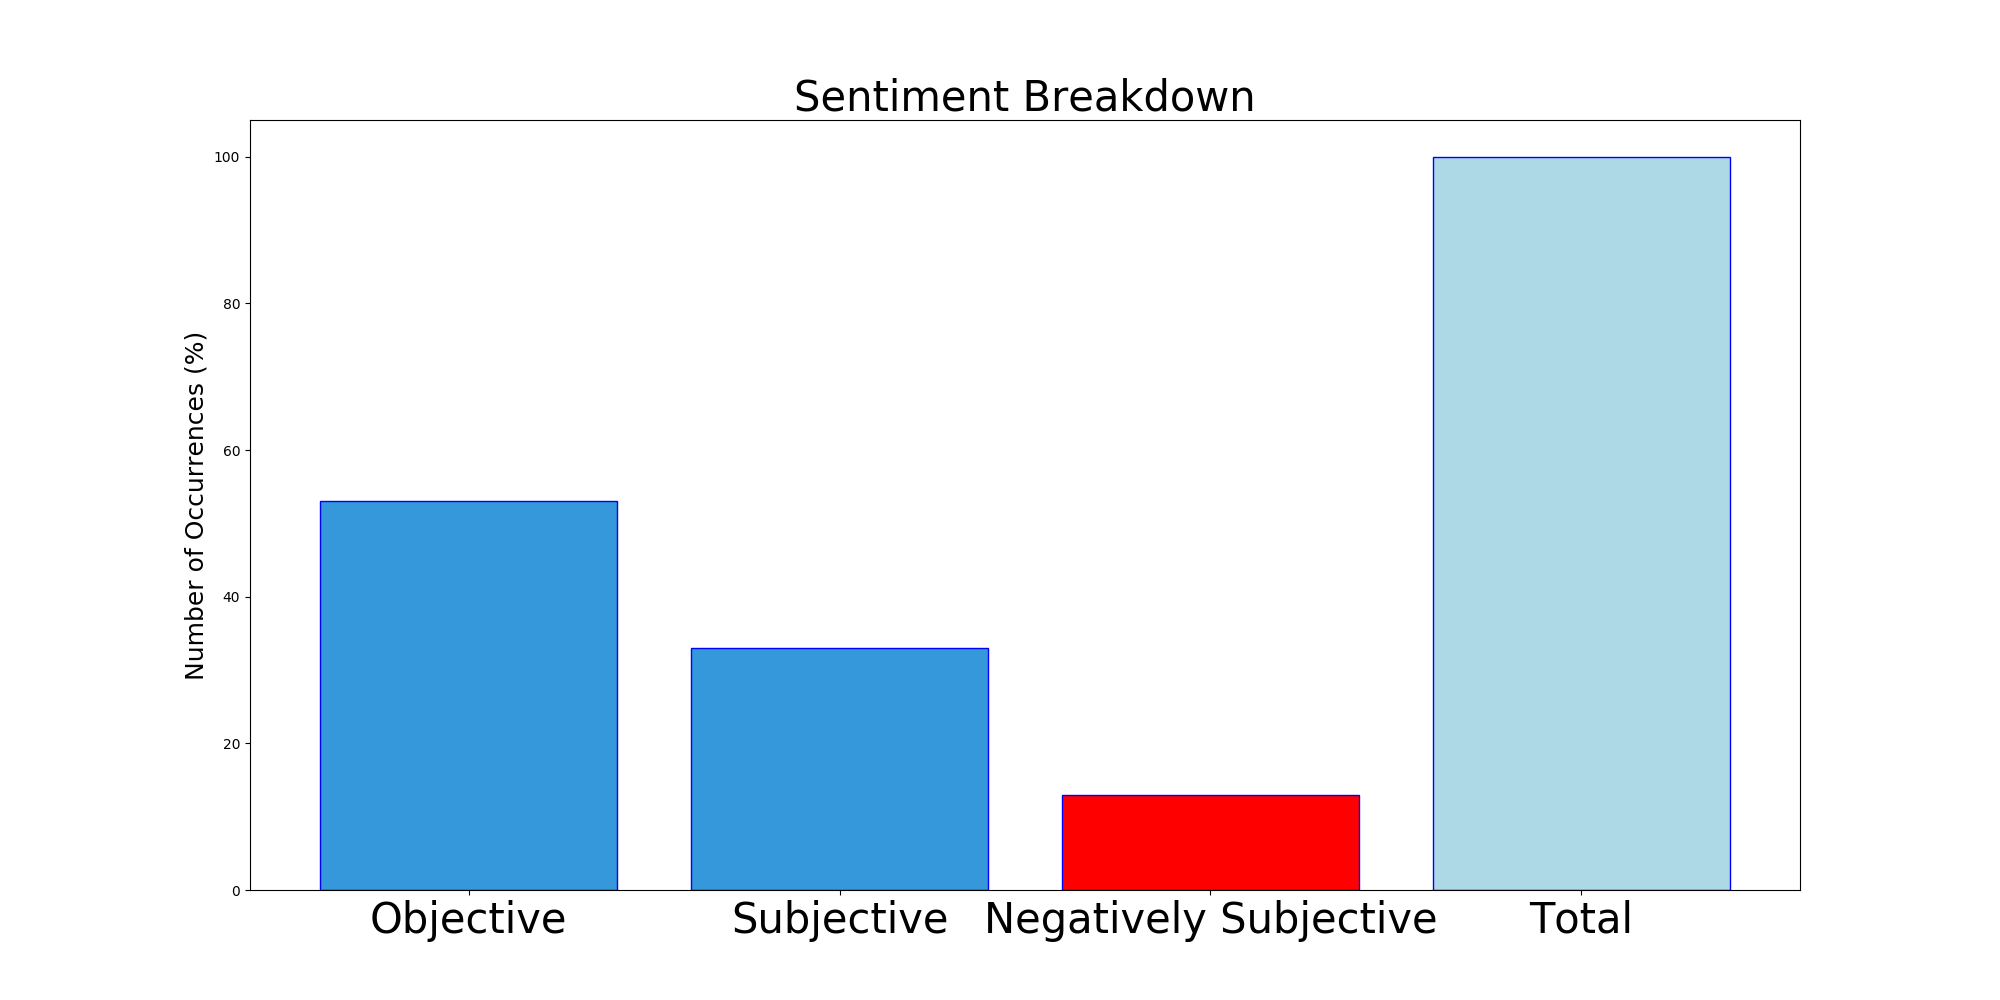
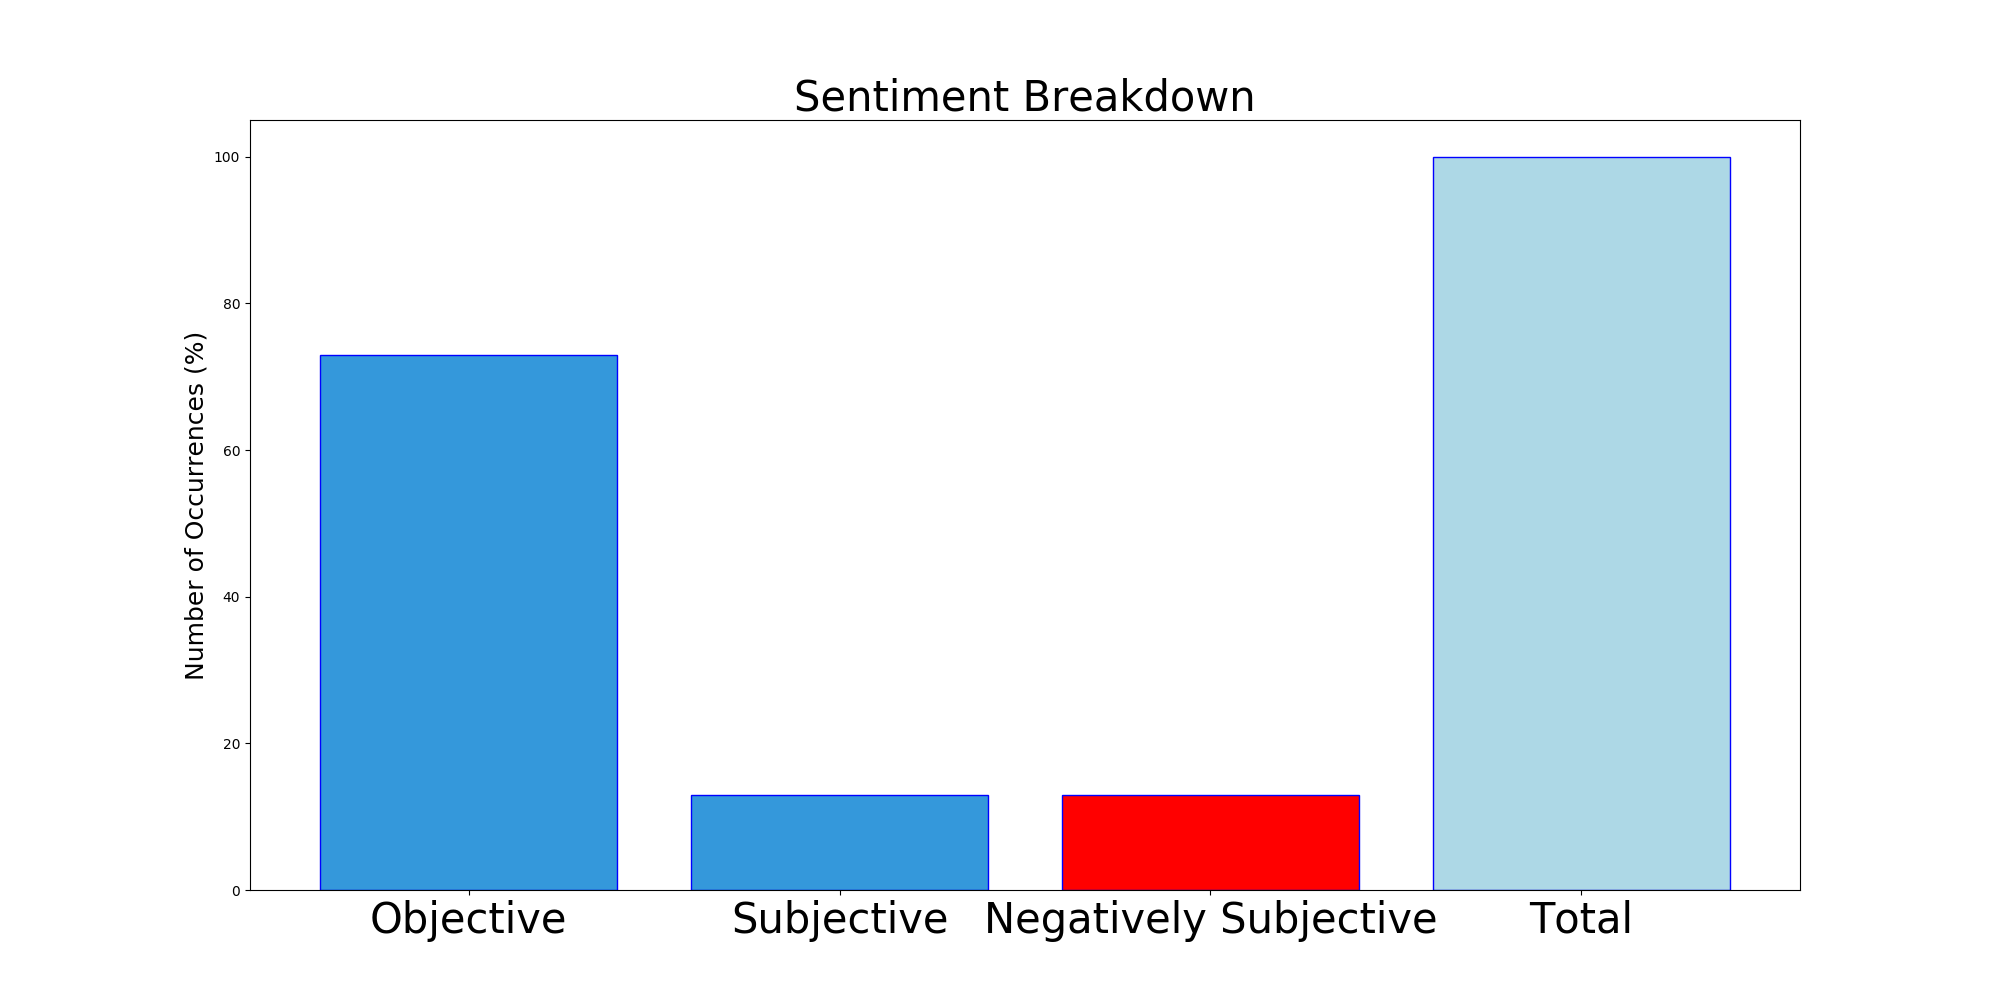
Updating with latest report

Changed region(s): [[0.341, 0.62, 0.496, 0.806], [0.155, 0.341, 0.31, 0.527]]

diff --git a/README.md b/README.md
@@ -1,5 +1,5 @@
 # MURCHIE85 TWITTER PROCESSING 
-&#x1F34E; **TOPIC = "nytimes"**
+&#x1F34E; **TOPIC = "POTUS"**
 
 ## AUTOMATED RESEARCH SUMMARY
 
@@ -15,19 +15,24 @@
 
 |                **Sample-Tweets**        |
 | :-------------: |
-| <div class="alert alert-block alert-warning">RT @canarytrap: Maybe next time the same moron can write on how 9/11 was a false flag op by American Deep State and Neocons and let's see i…</div> <div class="alert alert-block alert-success">RT @AshaRangappa_: No one tells him about Russian interference because his own staff tells offficials in charge of it not to bring it up in…</div> <div class="alert alert-block alert-info">RT @PramilaJayapal: We were trying to tell y’all about our winning movement.... https://t.co/ok1BCABUFn</div> |
-The most popular user is: **martetanto**
-<div class="alert alert-block alert-danger"> RT @TaylorLorenz: 14-year-old Jalaiah Harmon does the original version of Renegade dance that she choreographed in her Atlanta bedroom last…</div>
+| <div class="alert alert-block alert-warning">RT @ConservaMomUSA: #TrumpRallyPhoenixWhen José’s peers ask how he can support @realDonaldTrump as a Hispanic, this brave young man says:…</div> <div class="alert alert-block alert-success">RT @narendramodi: India looks forward to welcoming @POTUS @realDonaldTrump. It is an honour that he will be with us tomorrow, starting wi…</div> <div class="alert alert-block alert-info">@samuel_lasky @JosephineCuevas @iheartmindy @ewarren Who cares..🤷🏻♀ Hes doing a great job as @POTUS  I couldn’t c… https://t.co/yMYRlfqYVG</div> |
+The most popular user is: **potus_johnny**
+<div class="alert alert-block alert-danger"> RT @NCTsmtown_127: NCT 127 '꿈 (Boom)' Track Video #3
+
+🏆'Neo Zone' Chart Page ➫ https://t.co/FoHQE4w1ci
+
+#NeoZone_Boom #NeoZone_꿈
+#NeoZone_T…</div>
 
 ## RELATED METRICS<br>
 | Metric | Value |
 | ------------- | ------------- |
-| #1 Most tweeted to  | **nytimes** |
-| #2 Most tweeted to  | **Iyervval** |
-| #3 Most tweeted to  | **AsteadWesley** |
-| NewProfiles (less than 10 days) | 0.78%  |
-| Tweeters with < 10 followers  | 3.76%|
-| Tweeters with > 1000000 followers  | 0.22%  |
+| #1 Most tweeted to  | **POTUS** |
+| #2 Most tweeted to  | **realDonaldTrump** |
+| #3 Most tweeted to  | **narendramodi** |
+| NewProfiles (less than 10 days) | 1.9%  |
+| Tweeters with < 10 followers  | 4.14%|
+| Tweeters with > 1000000 followers  | 0.2%  |
 
 
 
@@ -36,28 +41,34 @@ The most popular user is: **martetanto**
 
 | Popularity Rank  | Term |
 | ------------- | ------------- |
-| first  | **TRUMP**  |
-| second  | **@NYTIMES**  |
-| third  | **SANDERS** |
-| fourth  | **BERNIE**  |
-| fifth  | **NEVADA**  |
+| first  | **@POTUS**  |
+| second  | **@REALDONALDTRUMP**  |
+| third  | **INDIA** |
+| fourth  | **US**  |
+| fifth  | **WELCOMING**  |
 
 
 ## Twitter Bio Analysis![image](BIO.png)
 ### SENTIMENT ANALYSIS
 ![image](sentiment.png)
-VIEWS WERE : **SUBJECTIVE**  (33.33%) & **NEGATIVELY-SUBJECTIVE** (13.33%) **OBJECTIVE** (53.33%)
+VIEWS WERE : **SUBJECTIVE**  (13.33%) & **NEGATIVELY-SUBJECTIVE** (13.33%) **OBJECTIVE** (73.33%)
 
 ### TWEET SAMPLE 
 Random value picked from array: 
 
-<div class="alert alert-block alert-info">RT @canarytrap: Maybe next time the same moron can write on how 9/11 was a false flag op by American Deep State and Neocons and let's see i…</div>
+<div class="alert alert-block alert-info">RT @ConservaMomUSA: #TrumpRallyPhoenix
+When José’s peers ask how he can support @realDonaldTrump as a Hispanic, this brave young man says:…</div>
 
 ### MOST RETWEETED 
 
-The most retweeted user is: **martetanto**
+The most retweeted user is: **potus_johnny**
 
-<div class="alert alert-block alert-danger"> RT @TaylorLorenz: 14-year-old Jalaiah Harmon does the original version of Renegade dance that she choreographed in her Atlanta bedroom last…</div>
+<div class="alert alert-block alert-danger"> RT @NCTsmtown_127: NCT 127 '꿈 (Boom)' Track Video #3
+
+🏆'Neo Zone' Chart Page ➫ https://t.co/FoHQE4w1ci
+
+#NeoZone_Boom #NeoZone_꿈
+#NeoZone_T…</div>
 
 ### CONCLUSION & EXTERNAL ANALYSIS
 
